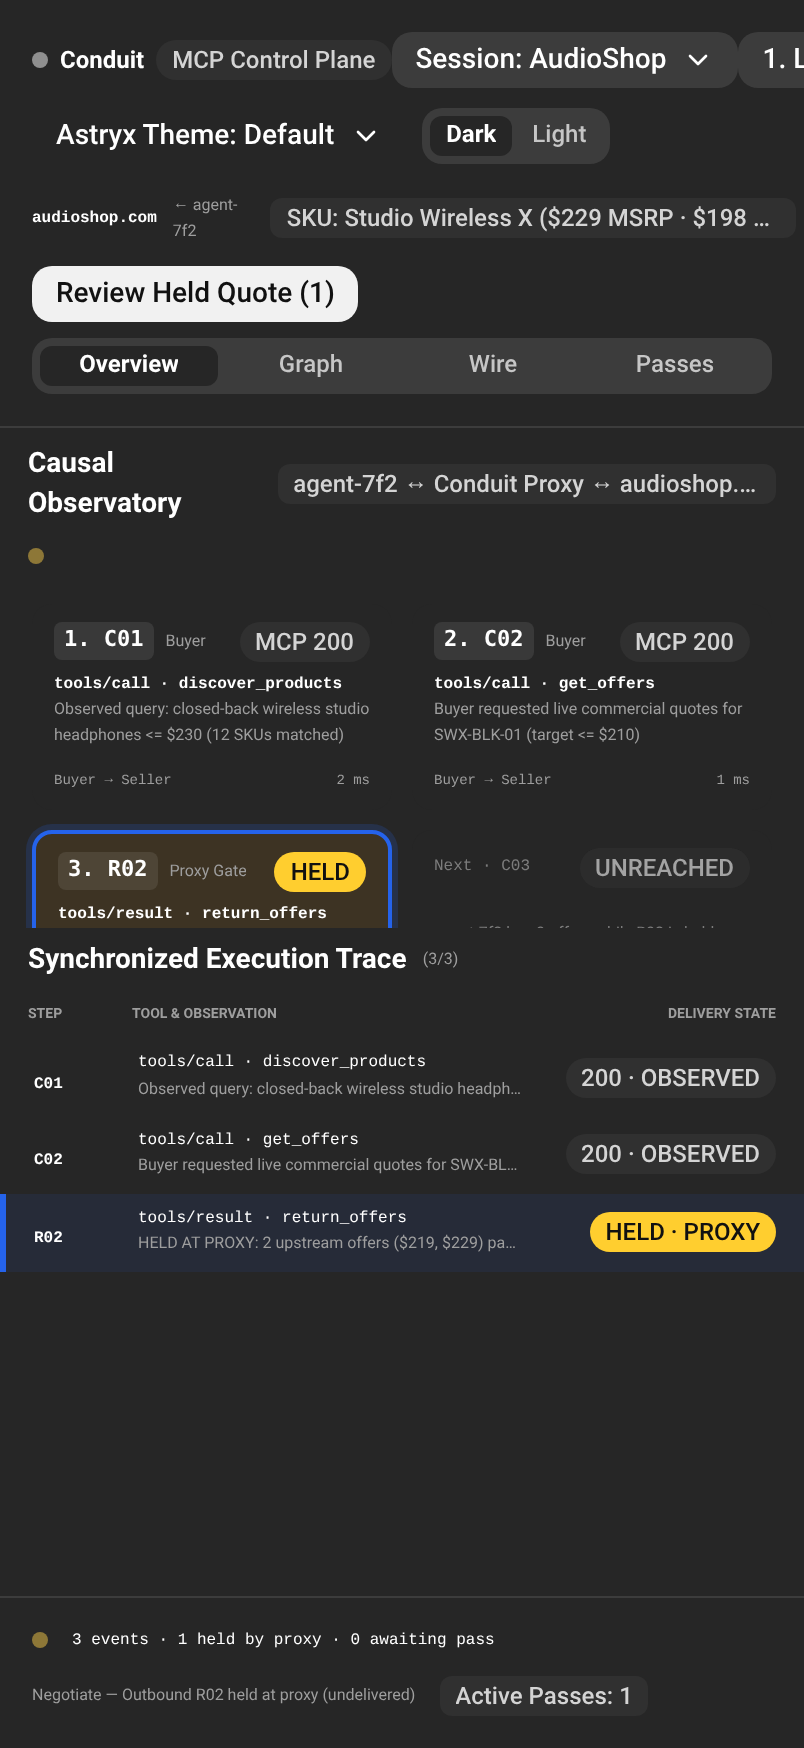
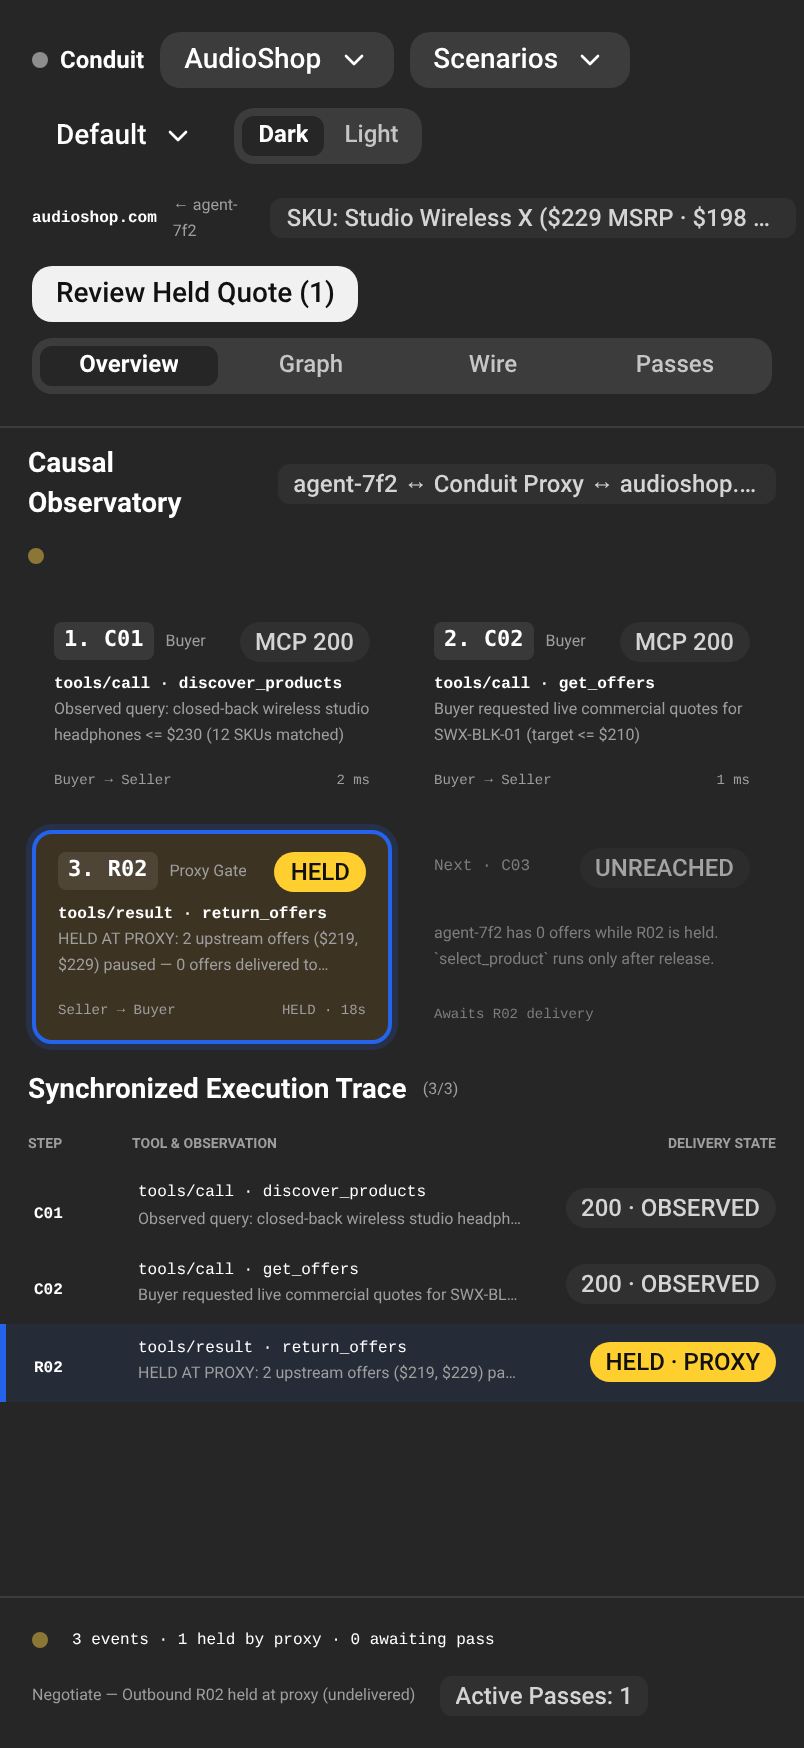
style(astryx-mobile): refine 402px mobile header, BottomSheet & validation captures [skip ci]

diff --git a/prototypes/astryx-control-plane/templates/conduit-mcp-workbench/page.tsx b/prototypes/astryx-control-plane/templates/conduit-mcp-workbench/page.tsx
@@ -2486,7 +2486,14 @@ export function WireSurface({
           flexWrap: 'wrap',
           flexShrink: 0,
         }}>
-        <HStack gap={2.5} vAlign="center">
+        <div
+          style={{
+            display: 'flex',
+            flexWrap: 'wrap',
+            alignItems: 'center',
+            gap: 10,
+            maxWidth: '100%',
+          }}>
           <Heading level={5}>Wire Evidence Capture</Heading>
           <SegmentedControl
             size="sm"
@@ -2497,7 +2504,7 @@ export function WireSurface({
             <SegmentedControlItem value="MCP" label="MCP" />
             <SegmentedControlItem value="HTTP" label="HTTP" />
           </SegmentedControl>
-        </HStack>
+        </div>
         <Text type="supporting" size="2xs" hasTabularNumbers>
           Host: {session.merchantHost} · {frames.length} captured packets
         </Text>
@@ -2686,7 +2693,14 @@ export function PassesSurface({
           flexWrap: 'wrap',
           flexShrink: 0,
         }}>
-        <HStack gap={2.5} vAlign="center">
+        <div
+          style={{
+            display: 'flex',
+            flexWrap: 'wrap',
+            alignItems: 'center',
+            gap: 10,
+            maxWidth: '100%',
+          }}>
           <Heading level={5}>Scoped Capability Passes Ledger</Heading>
           <SegmentedControl
             size="sm"
@@ -2699,7 +2713,7 @@ export function PassesSurface({
             <SegmentedControlItem value="Exhausted" label="Exhausted" />
             <SegmentedControlItem value="Revoked" label="Revoked" />
           </SegmentedControl>
-        </HStack>
+        </div>
         <Text type="supporting" size="2xs">
           Ed25519 single-use checkout capabilities bound to SKU, amount cap, and
           TTL
@@ -3320,11 +3334,13 @@ export default function ConduitMcpWorkbench() {
                     gap: 10,
                     flexWrap: 'wrap',
                   }}>
-                  <HStack gap={2.5} vAlign="center" wrap>
+                  <HStack gap={2} vAlign="center" wrap>
                     <HStack gap={1.5} vAlign="center">
                       <StatusDot variant="accent" isPulsing />
                       <Heading level={5}>Conduit</Heading>
-                      <Badge variant="neutral" label="MCP Control Plane" />
+                      {!isMobile && (
+                        <Badge variant="neutral" label="MCP Control Plane" />
+                      )}
                     </HStack>
 
                     {/* Mobile Session Switcher */}
@@ -3334,7 +3350,7 @@ export default function ConduitMcpWorkbench() {
                         button={{
                           size: 'sm',
                           variant: 'secondary',
-                          label: `Session: ${activeSession.merchantName}`,
+                          label: activeSession.merchantName,
                         }}
                         items={sessions.map(s => {
                           const sm = deriveWorkspaceMetrics(
@@ -3355,7 +3371,9 @@ export default function ConduitMcpWorkbench() {
                       button={{
                         size: 'sm',
                         variant: 'secondary',
-                        label: SCENARIO_LABELS[scenario],
+                        label: isMobile
+                          ? 'Scenarios'
+                          : SCENARIO_LABELS[scenario],
                       }}
                       items={(
                         Object.keys(SCENARIO_LABELS) as ScenarioPresetId[]
@@ -3365,12 +3383,14 @@ export default function ConduitMcpWorkbench() {
                       }))}
                     />
 
-                    <Button
-                      size="sm"
-                      variant="ghost"
-                      label="Reset Scenario"
-                      onClick={() => applyScenarioPreset(scenario)}
-                    />
+                    {!isMobile && (
+                      <Button
+                        size="sm"
+                        variant="ghost"
+                        label="Reset Scenario"
+                        onClick={() => applyScenarioPreset(scenario)}
+                      />
+                    )}
                   </HStack>
 
                   
@@ -3717,7 +3737,7 @@ export default function ConduitMcpWorkbench() {
                       {/* Top Pane: Compact Causal Observatory Graph */}
                       <div
                         style={{
-                          height: isMobile ? 250 : graphHeightResize.size,
+                          height: isMobile ? 315 : graphHeightResize.size,
                           flexShrink: 0,
                           minHeight: 0,
                           overflow: 'hidden',

diff --git a/prototypes/astryx-control-plane/conduit/ConduitWorkbench.tsx b/prototypes/astryx-control-plane/conduit/ConduitWorkbench.tsx
@@ -629,11 +629,13 @@ export function ConduitWorkbench() {
                     gap: 10,
                     flexWrap: 'wrap',
                   }}>
-                  <HStack gap={2.5} vAlign="center" wrap>
+                  <HStack gap={2} vAlign="center" wrap>
                     <HStack gap={1.5} vAlign="center">
                       <StatusDot variant="accent" isPulsing />
                       <Heading level={5}>Conduit</Heading>
-                      <Badge variant="neutral" label="MCP Control Plane" />
+                      {!isMobile && (
+                        <Badge variant="neutral" label="MCP Control Plane" />
+                      )}
                     </HStack>
 
                     {/* Mobile Session Switcher */}
@@ -643,7 +645,7 @@ export function ConduitWorkbench() {
                         button={{
                           size: 'sm',
                           variant: 'secondary',
-                          label: `Session: ${activeSession.merchantName}`,
+                          label: activeSession.merchantName,
                         }}
                         items={sessions.map(s => {
                           const sm = deriveWorkspaceMetrics(
@@ -664,7 +666,9 @@ export function ConduitWorkbench() {
                       button={{
                         size: 'sm',
                         variant: 'secondary',
-                        label: SCENARIO_LABELS[scenario],
+                        label: isMobile
+                          ? 'Scenarios'
+                          : SCENARIO_LABELS[scenario],
                       }}
                       items={(
                         Object.keys(SCENARIO_LABELS) as ScenarioPresetId[]
@@ -674,12 +678,14 @@ export function ConduitWorkbench() {
                       }))}
                     />
 
-                    <Button
-                      size="sm"
-                      variant="ghost"
-                      label="Reset Scenario"
-                      onClick={() => applyScenarioPreset(scenario)}
-                    />
+                    {!isMobile && (
+                      <Button
+                        size="sm"
+                        variant="ghost"
+                        label="Reset Scenario"
+                        onClick={() => applyScenarioPreset(scenario)}
+                      />
+                    )}
                   </HStack>
 
                   <HStack gap={2} vAlign="center" wrap>
@@ -688,11 +694,17 @@ export function ConduitWorkbench() {
                       button={{
                         size: 'sm',
                         variant: 'ghost',
-                        label: `Astryx Theme: ${
-                          PLAYGROUND_THEME_OPTIONS.find(
-                            t => t.value === themeKey,
-                          )?.label ?? themeKey
-                        }`,
+                        label: isMobile
+                          ? `${
+                              PLAYGROUND_THEME_OPTIONS.find(
+                                t => t.value === themeKey,
+                              )?.label ?? themeKey
+                            }`
+                          : `Astryx Theme: ${
+                              PLAYGROUND_THEME_OPTIONS.find(
+                                t => t.value === themeKey,
+                              )?.label ?? themeKey
+                            }`,
                       }}
                       items={PLAYGROUND_THEME_OPTIONS.map(opt => ({
                         label: opt.label,
@@ -1051,7 +1063,7 @@ export function ConduitWorkbench() {
                       {/* Top Pane: Compact Causal Observatory Graph */}
                       <div
                         style={{
-                          height: isMobile ? 250 : graphHeightResize.size,
+                          height: isMobile ? 315 : graphHeightResize.size,
                           flexShrink: 0,
                           minHeight: 0,
                           overflow: 'hidden',
@@ -1208,6 +1220,7 @@ export function ConduitWorkbench() {
             height="lg"
             padding="none">
             <CanonicalInspectorPanel
+              inBottomSheet
               session={activeSession}
               event={selectedEvent}
               onToggleMutation={handleToggleMutation}

diff --git a/prototypes/astryx-control-plane/conduit/CanonicalInspectorPanel.tsx b/prototypes/astryx-control-plane/conduit/CanonicalInspectorPanel.tsx
@@ -20,6 +20,7 @@ import type {MerchantSession, TraceEvent} from './conduitState';
 interface CanonicalInspectorPanelProps {
   session: MerchantSession;
   event: TraceEvent | null;
+  inBottomSheet?: boolean;
   onToggleMutation: (eventId: string, nextEnabled: boolean) => void;
   onTransmitModified: (eventId: string) => void;
   onForwardOriginal: (eventId: string) => void;
@@ -31,6 +32,7 @@ interface CanonicalInspectorPanelProps {
 export function CanonicalInspectorPanel({
   session,
   event,
+  inBottomSheet = false,
   onToggleMutation,
   onTransmitModified,
   onForwardOriginal,
@@ -92,7 +94,8 @@ export function CanonicalInspectorPanel({
     <div
       data-testid="canonical-inspector-panel"
       style={{
-        height: '100%',
+        height: inBottomSheet ? '76dvh' : '100%',
+        maxHeight: inBottomSheet ? '76dvh' : undefined,
         width: '100%',
         display: 'flex',
         flexDirection: 'column',
@@ -433,16 +436,21 @@ export function CanonicalInspectorPanel({
                       gap: 8,
                     }}>
                     <div style={{minWidth: 0}}>
-                      <StatusDot
-                        variant={
-                          v.status === 'pass'
-                            ? 'success'
-                            : v.status === 'warn'
-                              ? 'warning'
-                              : 'error'
-                        }
-                        label={v.gate}
-                      />
+                      <HStack gap={1.5} vAlign="center">
+                        <StatusDot
+                          variant={
+                            v.status === 'pass'
+                              ? 'success'
+                              : v.status === 'warn'
+                                ? 'warning'
+                                : 'error'
+                          }
+                          label={v.gate}
+                        />
+                        <Text type="body" size="xs" weight="medium">
+                          {v.gate}
+                        </Text>
+                      </HStack>
                       <div style={{paddingLeft: 16}}>
                         <Text type="supporting" size="2xs">
                           {v.detail}

diff --git a/prototypes/astryx-control-plane/conduit/WireAndPassesSurfaces.tsx b/prototypes/astryx-control-plane/conduit/WireAndPassesSurfaces.tsx
@@ -69,7 +69,14 @@ export function WireSurface({
           flexWrap: 'wrap',
           flexShrink: 0,
         }}>
-        <HStack gap={2.5} vAlign="center">
+        <div
+          style={{
+            display: 'flex',
+            flexWrap: 'wrap',
+            alignItems: 'center',
+            gap: 10,
+            maxWidth: '100%',
+          }}>
           <Heading level={5}>Wire Evidence Capture</Heading>
           <SegmentedControl
             size="sm"
@@ -80,7 +87,7 @@ export function WireSurface({
             <SegmentedControlItem value="MCP" label="MCP" />
             <SegmentedControlItem value="HTTP" label="HTTP" />
           </SegmentedControl>
-        </HStack>
+        </div>
         <Text type="supporting" size="2xs" hasTabularNumbers>
           Host: {session.merchantHost} · {frames.length} captured packets
         </Text>
@@ -269,7 +276,14 @@ export function PassesSurface({
           flexWrap: 'wrap',
           flexShrink: 0,
         }}>
-        <HStack gap={2.5} vAlign="center">
+        <div
+          style={{
+            display: 'flex',
+            flexWrap: 'wrap',
+            alignItems: 'center',
+            gap: 10,
+            maxWidth: '100%',
+          }}>
           <Heading level={5}>Scoped Capability Passes Ledger</Heading>
           <SegmentedControl
             size="sm"
@@ -282,7 +296,7 @@ export function PassesSurface({
             <SegmentedControlItem value="Exhausted" label="Exhausted" />
             <SegmentedControlItem value="Revoked" label="Revoked" />
           </SegmentedControl>
-        </HStack>
+        </div>
         <Text type="supporting" size="2xs">
           Ed25519 single-use checkout capabilities bound to SKU, amount cap, and
           TTL
